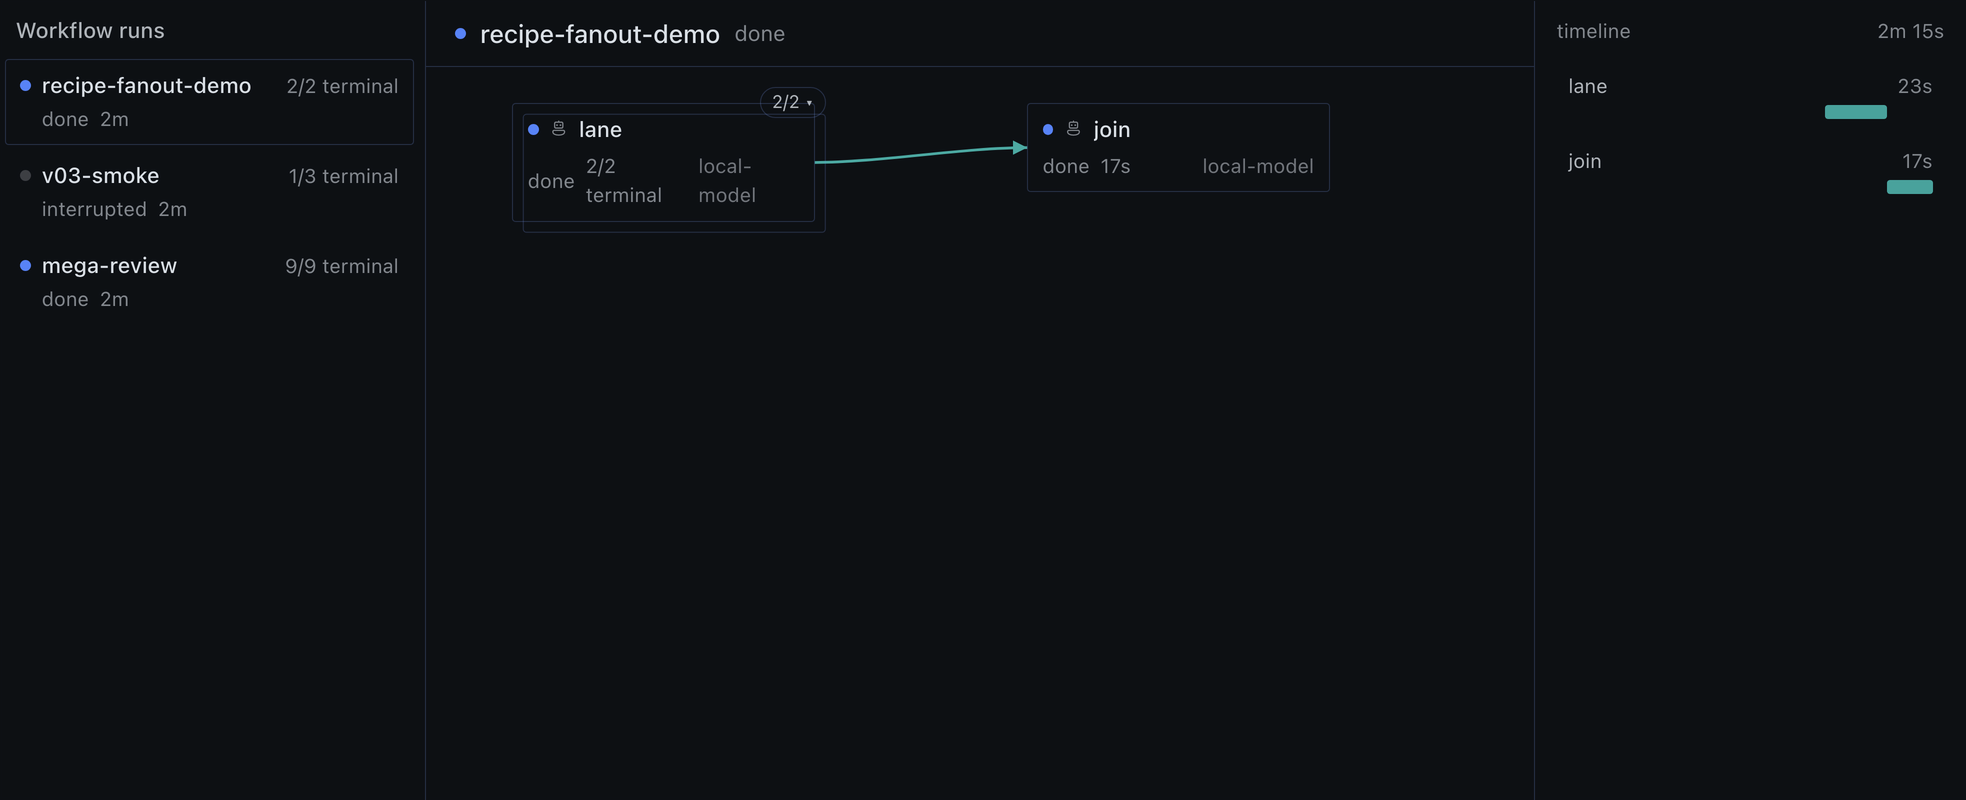
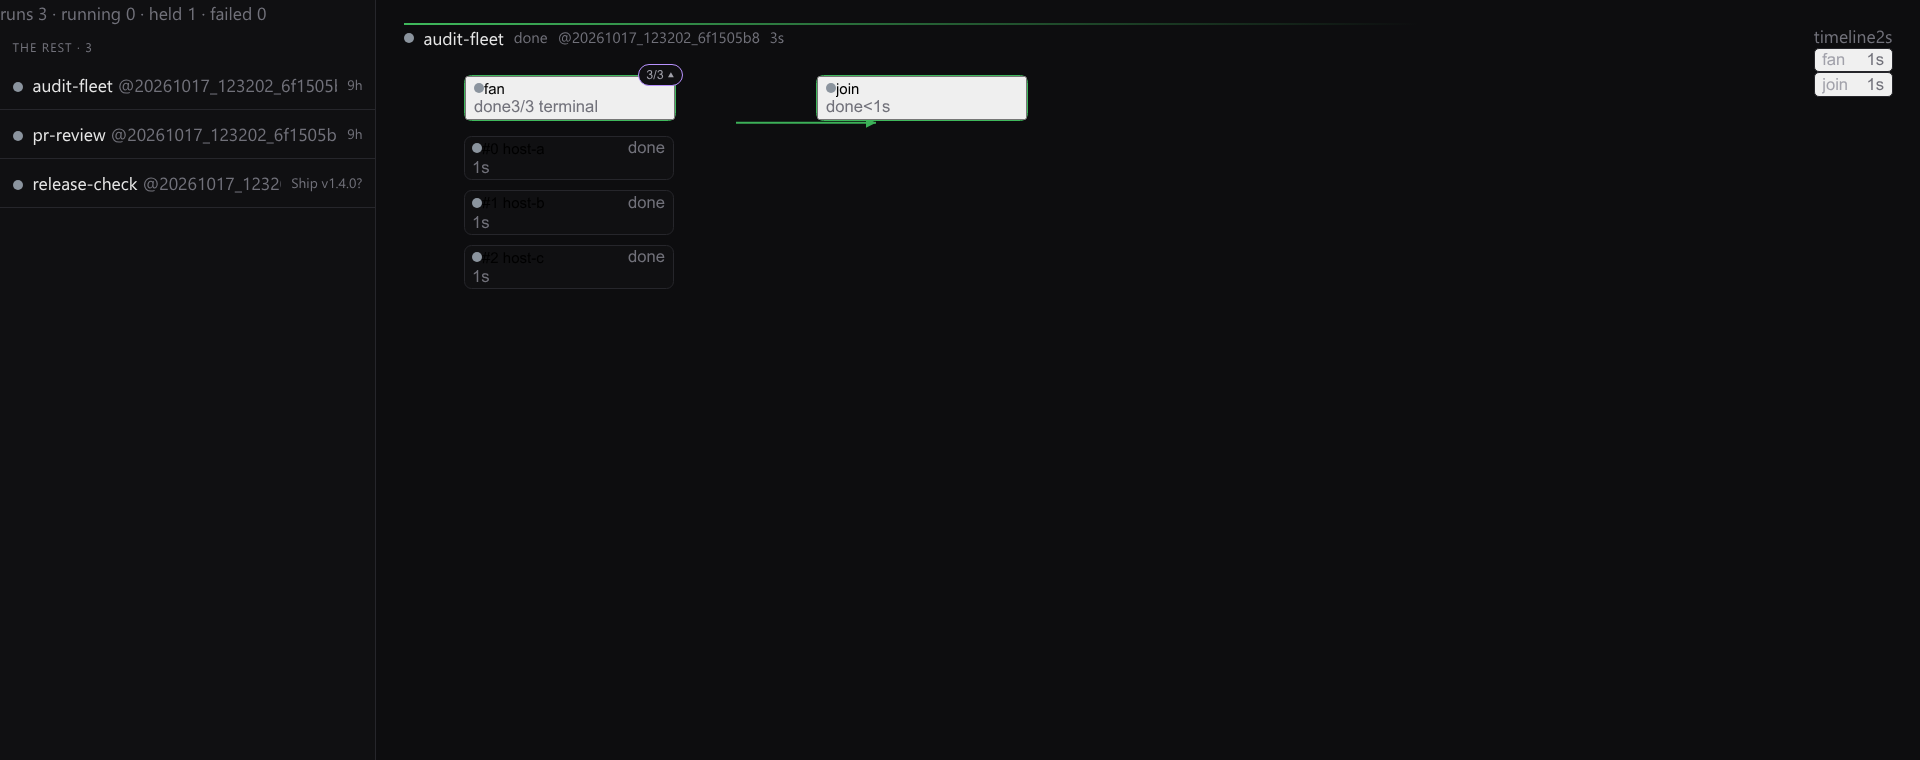
assets(review-batch-6): fresh showcase shots captured from the shipped bundle
Replaces the v0.9.0 trio (stale by ten releases — task-4 F4). Captured in
real Chrome against the shipped desktop/plugin.js (test-suite pattern: only
export line appended, behavior untouched), rendering a three-run fixture
pack through the SHIPPED dashboard read model (plugin_api._view/_list_runs);
host chrome approximated, components verbatim.

- assets/dag-review.png: the params-materialized review ladder (door pruned
  the deep lane before the graph existed — what you read is what runs)
- assets/fanout.png: fan node at 3/3 terminal with the item grid expanded
- assets/branch-gate.png: held human gate mid-graph, upstream green,
  downstream pending ("Ship v1.4.0?" is the actual fixture question)

README hero + both table captions rewritten to describe the REAL pixels
(the old alts described the v0.9 fleet/judge-gate screens, not these).

diff --git a/README.md b/README.md
@@ -7,7 +7,7 @@ Your agent authors a JSON graph of agent nodes, fan-outs and gates; a background
 runner executes it outside the caller process tree and hands results back through
 the same `workflow` tool it launched from. Hermes Desktop draws the live DAG.
 
-![A nine-node review fleet: four parallel recon lanes, a synthesis node, two adversarial critics, a human gate, and a final sign-off — with the per-node timeline on the right](assets/dag-review.png)
+![A four-node review ladder — review, hydrate, adversary, reconcile — materialized from a params contract at the door; per-node durations on the timeline rail](assets/dag-review.png)
 
 ## Why this exists
 
@@ -40,8 +40,8 @@ not re-paid.
 | **Authoring skill** | Bundled `workflow` skill: grammar, operations, and **measured** per-shape budget presets (`recon`/`build`/`review`/`publish`) |
 
 <table><tr>
-<td width="50%"><img src="assets/fanout.png" alt="A fan-out node showing 2/2 items terminal, stacked behind the card, feeding a join node"><br><sub><b>Fan-out.</b> One node, two live children; items stack behind the card and the join reads both outputs.</sub></td>
-<td width="50%"><img src="assets/branch-gate.png" alt="A judge node feeding two complementary machine gates; each gate opens its own arm"><br><sub><b>Branch on verdict.</b> Two complementary <code>when</code> gates on one judge; each arm runs only when its gate opens.</sub></td>
+<td width="50%"><img src="assets/fanout.png" alt="A fan-out node at 3/3 terminal with its three item rows (host-a, host-b, host-c) expanded, feeding a join node"><br><sub><b>Fan-out.</b> One node, N live children; expanded items each carry their own status and duration, and the join only releases when the quorum is terminal.</sub></td>
+<td width="50%"><img src="assets/branch-gate.png" alt="A held human gate in the middle of the run graph: question 'Ship v1.4.0?' with its two answer options pending, the completed upstream node green, the downstream node pending"><br><sub><b>Human gates.</b> A held gate parks the run at zero token cost; the answer (tool, desktop card, or <code>/wf gates</code>) releases the waiting arm.</sub></td>
 </tr></table>
 
 ## Offline checkout drift probe

diff --git a/AGENTS.md b/AGENTS.md
@@ -516,6 +516,8 @@ draw the example workflow diagrams in `examples/README.md`, which DO ship.)
 
 ```sh
 # bump plugin.yaml / SKILL.md / references/grammar.md / CHANGELOG.md to the new version
+# re-pin every file:line cite in docs/catalog/disclosure-check.md (AGENTS 4d law:
+# the audit is exact-at-commit — a drifted cite sends readers to unrelated code)
 python3 scripts/suite.py . ci-out && hermes plugins validate . && python3 scripts/make_public.py /tmp/pub
 python3 scripts/pack.py                            # artifacts/hermes-workflows-<v>.zip + .sha256
 git tag v<version> && git push --tags

diff --git a/docs/catalog/disclosure-check.md b/docs/catalog/disclosure-check.md
@@ -2,7 +2,9 @@
 
 Verification of the catalog submission disclosure for `hermes-workflows`
 (fix for NousResearch/hermes-agent#122099). Every clause below is checked
-against the source at this commit; `file:line` cites are exact at audit time.
+against the source at this commit; `file:line` cites are exact at audit time
+and RE-PINNED at every release cut (AGENTS.md 4d) — between cuts, trust the
+clause, not the line number.
 
 **Verdict: verified — with one correction.** An earlier draft disclosure said
 the plugin makes "no network calls of its own". Unqualified, that is
